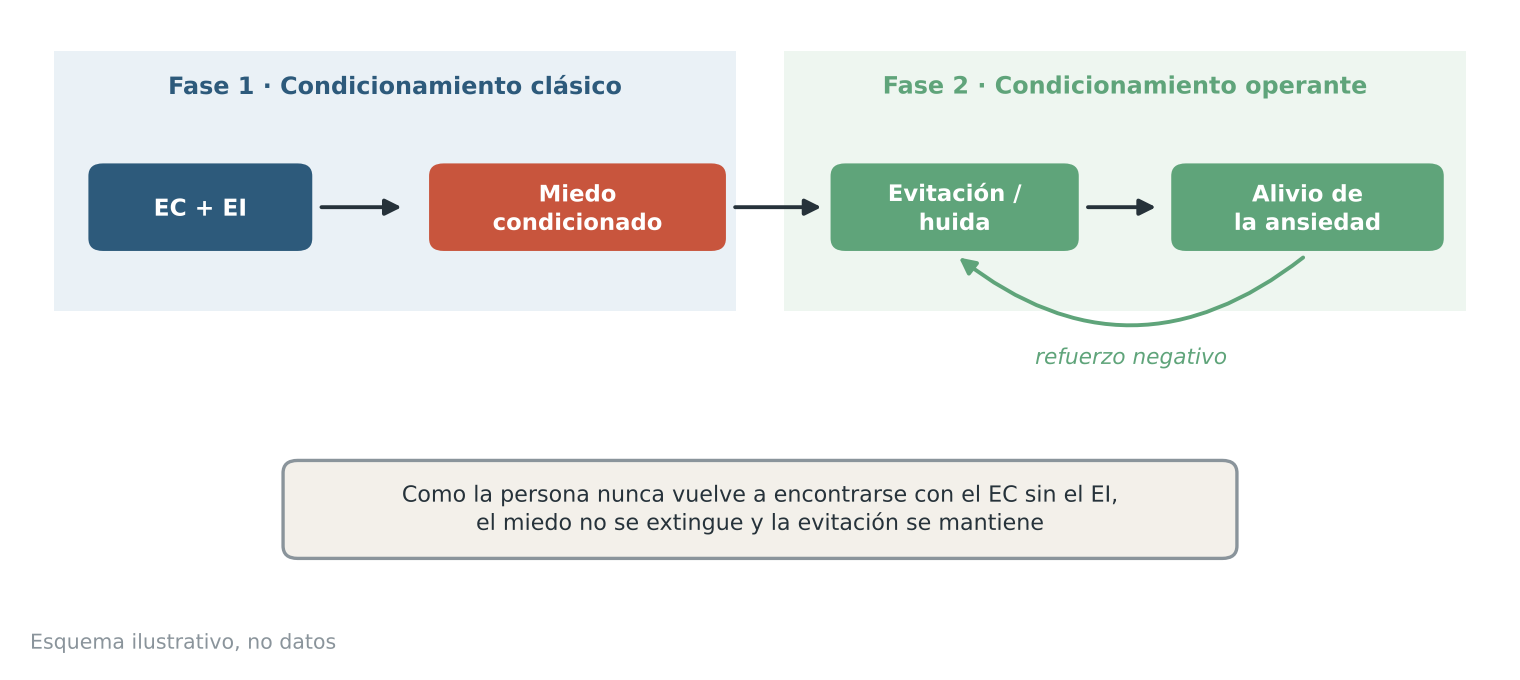
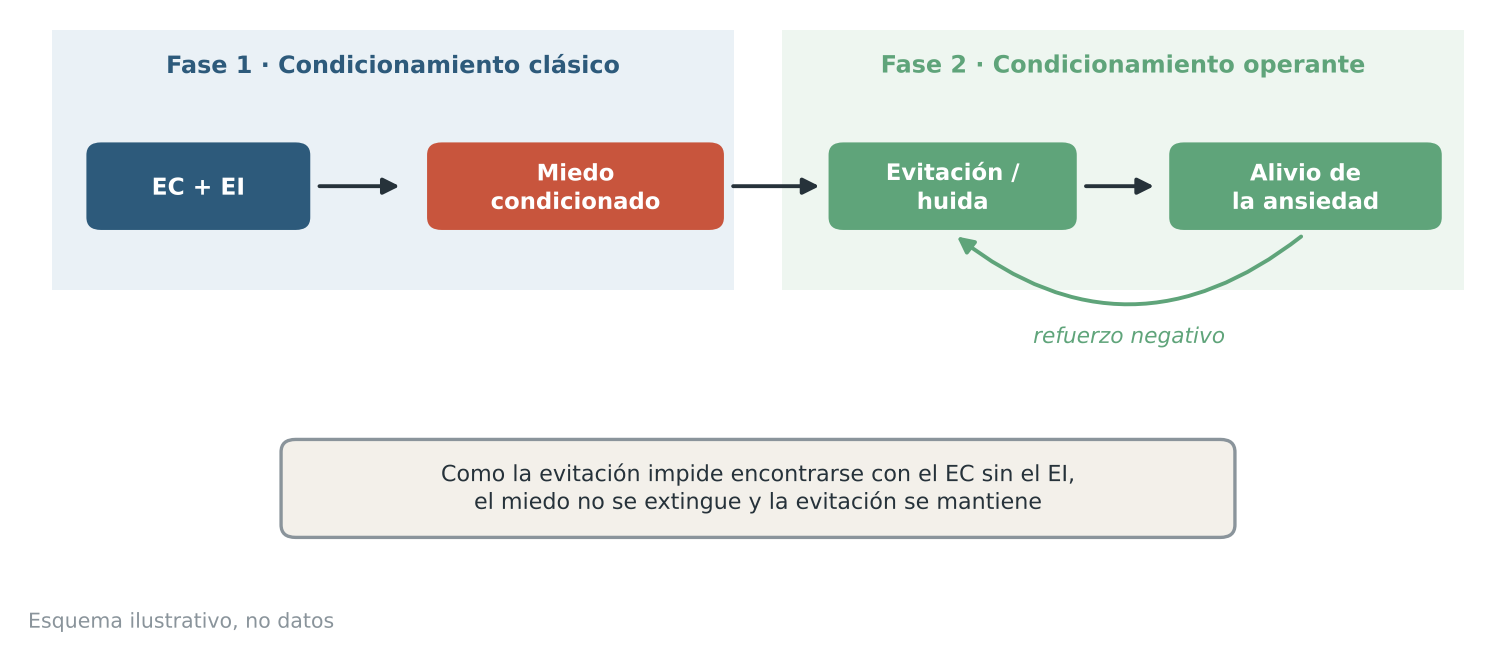
Psicopatología: temario completo revisado (16 unidades, figuras y créditos)
Claude-Session: https://claude.ai/code/session_015DUpSUnVGHW6WTjJKwbN9p

diff --git a/temarios/psicopatologia/tools/figuras.py b/temarios/psicopatologia/tools/figuras.py
@@ -217,7 +217,7 @@ if want('u07_mowrer'):
     box(ax, 7.6, 3.9, 2.0, .8, 'Evitación /\nhuida', G, 8.2); arr(ax, (8.65, 3.9), (9.3, 3.9)); box(ax, 10.5, 3.9, 2.2, .8, 'Alivio de\nla ansiedad', G, 8.2)
     arr(ax, (5.75, 3.9), (6.55, 3.9))
     arr(ax, (10.5, 3.45), (7.6, 3.45), G, rad=-.4); txt(ax, 9.05, 2.45, 'refuerzo negativo', 7.8, G, style='italic')
-    box(ax, 6.0, 1.0, 7.8, .9, 'Como la persona nunca vuelve a encontrarse con el EC sin el EI,\nel miedo no se extingue y la evitación se mantiene', SOFT, 8, tc=INK, bold=False, ec=MUTE)
+    box(ax, 6.0, 1.0, 7.8, .9, 'Como la evitación impide encontrarse con el EC sin el EI,\nel miedo no se extingue y la evitación se mantiene', SOFT, 8, tc=INK, bold=False, ec=MUTE)
     note(ax, y=-.06)
     save(fig, 'u07_mowrer.png')
 

diff --git a/temarios/psicopatologia/04-ansiedad-trauma.md b/temarios/psicopatologia/04-ansiedad-trauma.md
@@ -12,7 +12,7 @@ El **miedo** es la respuesta a una amenaza **presente e inmediata**: un perro qu
 
 La ansiedad es adaptativa. Según la **ley de Yerkes-Dodson**, el rendimiento sigue una **U invertida**: es máximo con una activación moderada y cae con poca o con demasiada. La ansiedad es **patológica** cuando es desproporcionada a la amenaza real, persiste e interfiere en la vida. Los trastornos de ansiedad son más frecuentes en mujeres (en torno a 2:1) y su heredabilidad se sitúa aproximadamente entre el 30 y el 50 %. El DSM-5-TR agrupa aquí la ansiedad por separación, el mutismo selectivo, la fobia específica, la ansiedad social, el pánico, la agorafobia, el TAG y los cuadros inducidos por sustancias o por otra afección médica; el TOC y el TEPT salieron del capítulo en el DSM-5 (Unidades 8 y 9).
 
-La **fobia específica** es un miedo o ansiedad intensos ante un objeto o situación concretos, que casi siempre provoca miedo inmediato, se evita o se soporta con gran malestar, es desproporcionado y dura **6 meses o más**. Se especifica el tipo: **animal**, **entorno natural** (alturas, tormentas, agua), **sangre-inyecciones-heridas**, **situacional** (aviones, ascensores) y **otros**. Suele empezar en la infancia: las fobias a animales, pronto; las situacionales, más tarde. En el estudio ESEMeD-España fue el segundo trastorno en prevalencia vital.
+La **fobia específica** es un miedo o ansiedad intensos ante un objeto o situación concretos, que casi siempre provoca miedo inmediato, se evita o se soporta con gran malestar, es desproporcionado y dura **típicamente 6 meses o más**. Se especifica el tipo: **animal**, **entorno natural** (alturas, tormentas, agua), **sangre-inyecciones-heridas**, **situacional** (aviones, ascensores) y **otros**. Suele empezar en la infancia: las fobias a animales, pronto; las situacionales, más tarde. En el estudio ESEMeD-España fue el segundo trastorno en prevalencia vital.
 
 La fobia a la **sangre-inyecciones-heridas** (SIH) es una excepción fisiológica: produce una **respuesta bifásica**, con un aumento inicial de la frecuencia cardiaca y la tensión arterial seguido de una caída vasovagal que puede acabar en desmayo. Por eso se trata con la **tensión aplicada** de Öst: tensar los músculos para evitar la caída de la tensión arterial.
 
@@ -38,7 +38,7 @@ Seligman (1971) propuso la **preparación** (*preparedness*): los miedos a estí
 
 ### 7.2 Trastorno de ansiedad social
 
-El **trastorno de ansiedad social** es un miedo o ansiedad intensos en situaciones sociales en las que la persona puede ser **examinada** por otros: conversar con desconocidos, comer en público, hablar en una reunión. El núcleo es el miedo a la **evaluación negativa**: actuar o mostrar síntomas de ansiedad (ruborizarse, temblar, sudar) que lleven a la humillación, al rechazo o a ofender a alguien. Las situaciones casi siempre provocan ansiedad, se evitan o se soportan con malestar intenso, la respuesta es desproporcionada y dura **6 meses o más**. Existe el especificador **«solo actuación»**, cuando el miedo se limita a hablar o actuar en público. El DSM-5-TR ya no usa «fobia social» como sinónimo.
+El **trastorno de ansiedad social** es un miedo o ansiedad intensos en situaciones sociales en las que la persona puede ser **examinada** por otros: conversar con desconocidos, comer en público, hablar en una reunión. El núcleo es el miedo a la **evaluación negativa**: actuar o mostrar síntomas de ansiedad (ruborizarse, temblar, sudar) que lleven a la humillación, al rechazo o a ofender a alguien. Las situaciones casi siempre provocan ansiedad, se evitan o se soportan con malestar intenso, la respuesta es desproporcionada y dura **típicamente 6 meses o más**. Existe el especificador **«solo actuación»**, cuando el miedo se limita a hablar o actuar en público. El DSM-5-TR ya no usa «fobia social» como sinónimo.
 
 La prevalencia anual en Estados Unidos ronda el **7 %**, según el DSM. Suele empezar en la **adolescencia** y, sin tratamiento, tiende a la cronicidad. En el triple sistema de respuesta:
 
@@ -48,7 +48,7 @@ La prevalencia anual en Estados Unidos ronda el **7 %**, según el DSM. Suele em
 | Fisiológico | Rubor, temblor, sudoración; preocupan sobre todo los síntomas visibles |
 | Motor | Evitación, escape y conductas de seguridad, como no mirar a los ojos |
 
-**Timidez no es ansiedad social.** La **timidez** es un rasgo dimensional y muy frecuente; la mayoría de las personas tímidas **no** cumple criterios del trastorno. La diferencia está en la intensidad, la evitación, el malestar y el deterioro. Lucía, tímida, tarda en soltarse en una cena con gente nueva, pero acaba disfrutando. Marcos ha rechazado un ascenso para no hablar en reuniones y pasa días repasando cada frase que dijo: solo él tiene un trastorno. Como factor temperamental de riesgo se ha estudiado la **inhibición conductual** descrita por Kagan: la tendencia infantil a retraerse ante lo nuevo. El solapamiento con el trastorno de la personalidad evitativa es grande; el evitativo es más generalizado (Unidad 12).
+**Timidez no es ansiedad social.** La **timidez** es un rasgo dimensional y muy frecuente; la mayoría de las personas tímidas **no** cumple criterios del trastorno. La diferencia está en la intensidad, la evitación, el malestar y el deterioro. Nuria, tímida, tarda en soltarse en una cena con gente nueva, pero acaba disfrutando. Marcos ha rechazado un ascenso para no hablar en reuniones y pasa días repasando cada frase que dijo: solo él tiene un trastorno. Como factor temperamental de riesgo se ha estudiado la **inhibición conductual** descrita por Kagan: la tendencia infantil a retraerse ante lo nuevo. El solapamiento con el trastorno de la personalidad evitativa es grande; el evitativo es más generalizado (Unidad 12).
 
 **Modelos cognitivos.** Dos modelos explican por qué la ansiedad social se mantiene aunque las situaciones temidas no acaben en catástrofe:
 
@@ -59,7 +59,7 @@ En ambos, el problema no es la falta de habilidades sociales, sino la atención 
 
 ### 7.3 Trastorno de pánico y agorafobia
 
-Una **crisis o ataque de pánico** es la aparición súbita de miedo o malestar intenso que alcanza su **máximo en minutos**, con **al menos 4 de 13 síntomas**: palpitaciones, sudoración, temblor, sensación de falta de aire, de ahogo, dolor torácico, náuseas, mareo, escalofríos o calor, parestesias, desrealización o despersonalización, miedo a perder el control o a volverse loco y miedo a morir. Puede surgir desde la calma o desde un estado de ansiedad.
+Una **crisis o ataque de pánico** es la aparición súbita de miedo o malestar intenso que alcanza su **máximo en minutos**, con **al menos 4 de 13 síntomas**: palpitaciones, sudoración, temblor, sensación de falta de aire, de ahogo, dolor torácico, náuseas, mareo, escalofríos o calor, parestesias, desrealización o despersonalización, miedo a perder el control o a volverse loco y miedo a morir. Puede aparecer tanto en reposo como cuando la persona ya estaba ansiosa.
 
 El **trastorno de pánico** exige crisis **inesperadas y recurrentes**, y que al menos a una le siga **un mes o más** de inquietud persistente por nuevas crisis o sus consecuencias («¿y si me da un infarto?») o un cambio desadaptativo de la conducta (dejar el gimnasio para no acelerar el corazón). Las crisis **esperadas**, ligadas a una situación temida, también existen: por eso el ataque de pánico es, además, un **especificador** aplicable a cualquier trastorno («depresión con ataques de pánico»). La prevalencia anual ronda el **2-3 %**, según el DSM, y suele iniciarse en la adultez temprana.
 
@@ -77,9 +77,9 @@ Como muestra la figura 7.4, el ciclo se cierra sobre sí mismo: la ansiedad inte
 - **Barlow** distingue la **falsa alarma** (una reacción de miedo sin peligro real), la **alarma aprendida** (que queda condicionada a señales) y el condicionamiento **interoceptivo**: las propias sensaciones corporales se convierten en señales de una nueva crisis.
 - **Klein (1993)** propuso la hipótesis de la **falsa alarma de asfixia**: un detector de asfixia demasiado sensible se dispararía sin motivo. Estas hipótesis se estudian con **pruebas de provocación** (CO₂, hiperventilación, lactato).
 
-**La agorafobia** es un miedo o ansiedad intensos en **al menos 2 de 5 situaciones**: transporte público, espacios abiertos, sitios cerrados, hacer cola o estar entre una multitud, y estar fuera de casa solo. Se temen porque escapar sería difícil o no habría ayuda si aparecieran síntomas de pánico u otros síntomas incapacitantes o embarazosos (caerse, en una persona mayor; perder el control de esfínteres). Las situaciones se evitan, exigen un acompañante o se soportan con gran malestar, durante **6 meses o más**. Su prevalencia es aproximadamente del 1-2 %.
+**La agorafobia** es un miedo o ansiedad intensos en **al menos 2 de 5 situaciones**: transporte público, espacios abiertos, sitios cerrados, hacer cola o estar entre una multitud, y estar fuera de casa solo. Se temen porque escapar sería difícil o no habría ayuda si aparecieran síntomas de pánico u otros síntomas incapacitantes o embarazosos (caerse, en una persona mayor; perder el control de esfínteres). Las situaciones se evitan, exigen un acompañante o se soportan con gran malestar, durante **típicamente 6 meses o más**. Su prevalencia es aproximadamente del 1-2 %.
 
-Hasta el DSM-IV se hablaba de «trastorno de pánico con o sin agorafobia». Desde el DSM-5 son **diagnósticos independientes**: la agorafobia puede existir sin pánico y, si se cumplen ambos, se diagnostican los dos. Ana tuvo dos crisis en el metro y ahora solo sale acompañada: tiene ambos trastornos. El tratamiento con más apoyo es la exposición *in vivo* dentro de la terapia cognitivo-conductual (Tratamientos).
+Hasta el DSM-IV se hablaba de «trastorno de pánico con o sin agorafobia». Desde el DSM-5 son **diagnósticos independientes**: la agorafobia puede existir sin pánico y, si se cumplen ambos, se diagnostican los dos. Ana ha tenido varias crisis inesperadas, vive pendiente de que se repitan y desde hace más de 6 meses evita el metro y las colas o solo sale acompañada: tiene ambos trastornos. El tratamiento con más apoyo es la exposición *in vivo* dentro de la terapia cognitivo-conductual (Tratamientos).
 
 ### 7.4 Trastorno de ansiedad generalizada y otros trastornos de ansiedad
 
@@ -295,7 +295,7 @@ Con la **rumiación** y la **preocupación**, el TOC comparte el pensamiento rep
 
 ### Clave PIR
 
-**Prioridad alta.** Según análisis de academias, el TOC aporta varias preguntas en cada convocatoria. Se preguntan la definición de obsesión y compulsión (incluidos los actos mentales), los especificadores de *insight*, el modelo de Salkovskis, la fusión pensamiento-acción y qué trastornos forman el grupo en cada sistema. Trampas típicas: creer que el *insight* ausente obliga a diagnosticar psicosis, confundir TOC y TPOC, situar la hipocondría en el mismo capítulo en el DSM-5-TR y en la CIE-11, y exagerar el efecto del oso blanco.
+**Prioridad alta.**  Se preguntan la definición de obsesión y compulsión (incluidos los actos mentales), los especificadores de *insight*, el modelo de Salkovskis, la fusión pensamiento-acción y qué trastornos forman el grupo en cada sistema. Trampas típicas: creer que el *insight* ausente obliga a diagnosticar psicosis, confundir TOC y TPOC, situar la hipocondría en el mismo capítulo en el DSM-5-TR y en la CIE-11, y exagerar el efecto del oso blanco.
 
 ### Autoevaluación
 
@@ -362,7 +362,7 @@ Como muestra la figura 9.1, el tiempo es clave en el diagnóstico diferencial de
 - **Modelo cognitivo** (Ehlers y Clark, 2000). El TEPT persiste cuando la persona siente una **amenaza actual**, no pasada. Esa sensación procede de **valoraciones negativas** del trauma o de sus secuelas («nunca estaré a salvo», «fue culpa mía») y de una **memoria del trauma mal elaborada** y poco contextualizada, que se reactiva con claves sensoriales y se vive como si ocurriera ahora. La evitación y la supresión impiden actualizar esa memoria.
 - **Representación dual** (Brewin y colaboradores). Distingue **memorias sensoriales**, que se activan ante señales situacionales y explican los *flashbacks*, de **memorias verbales** contextualizadas, que sitúan el suceso en el pasado.
 
-Un ejemplo: Sara sufrió un atropello hace tres meses. Cuando oye un frenazo nota el golpe «como si estuviera pasando», evita esa calle, se culpa y duerme mal: cumple criterios de TEPT.
+Un ejemplo: Sara sufrió un atropello hace tres meses. Cuando oye un frenazo nota el golpe «como si estuviera pasando», evita esa calle, se culpa, está convencida de que ya no hay ningún lugar seguro, se sobresalta con cualquier ruido y duerme mal: el cuadro es compatible con un TEPT.
 
 ### 9.2 El TEPT complejo de la CIE-11 y el debate sobre la memoria traumática
 
@@ -378,7 +378,7 @@ Un ejemplo: Sara sufrió un atropello hace tres meses. Cuando oye un frenazo not
 
 Figura 9.2. **Del TEPT al TEPT complejo en la CIE-11.** A los tres núcleos del TEPT (reexperimentación, evitación y amenaza actual) se suman tres alteraciones de la autoorganización: desregulación afectiva, autoconcepto negativo y dificultades relacionales. Elaboración propia.
 
-Como muestra la figura 9.2, el TEPT complejo no es un trastorno distinto en su base, sino el TEPT más un segundo bloque de síntomas. Sustituye a la «transformación persistente de la personalidad tras experiencia catastrófica» de la CIE-10, y los estudios de campo apoyan la distinción entre ambos cuadros. El solapamiento con el trastorno límite de la personalidad es un tema de discusión clínica (Unidad 12).
+Como muestra la figura 9.2, el TEPT complejo incluye los requisitos del TEPT más un segundo bloque de síntomas; se diagnostica uno u otro, no ambos. Sustituye a la «transformación persistente de la personalidad tras experiencia catastrófica» de la CIE-10, y los estudios de campo apoyan la distinción entre TEPT y TEPT complejo. El solapamiento con el trastorno límite de la personalidad es un tema de discusión clínica (Unidad 12).
 
 | Aspecto | DSM-5-TR | CIE-11 |
 | --- | --- | --- |
@@ -407,7 +407,7 @@ En la **CIE-11**, la **reacción de estrés agudo** **no es un trastorno mental*
 
 Se especifican subtipos: con estado de ánimo deprimido, con ansiedad, mixto con ansiedad y estado de ánimo deprimido, con alteración de la conducta, mixto con alteración de las emociones y la conducta, y no especificado. El DSM-5-TR aclara que los síntomas **subumbrales** que aparecen ante un estresor se codifican como trastorno de adaptación. La CIE-11 lo describe a partir de dos rasgos: la **preocupación** por el estresor y sus consecuencias, y el **fallo de adaptación**, que interfiere en la vida diaria; suele resolverse en unos 6 meses.
 
-Un ejemplo: Pablo empezó a dormir mal, a irritarse con su pareja y a faltar a clase dos semanas después de que su empresa cerrara. No tiene síntomas suficientes para una depresión, pero su malestar es mayor de lo esperable y le impide funcionar. Es un trastorno de adaptación con estado de ánimo mixto.
+Un ejemplo: Pablo empezó a dormir mal, a irritarse con su pareja y a faltar al trabajo dos semanas después de que anunciaran el cierre de su empresa. No tiene síntomas suficientes para una depresión, pero su malestar es mayor de lo esperable y le impide funcionar. Es un trastorno de adaptación mixto con alteración de las emociones y la conducta.
 
 **Trastornos de la infancia ligados a la privación de cuidados.** Dos diagnósticos del grupo aparecen en niños que han sufrido un **cuidado gravemente insuficiente**: negligencia, cambios repetidos de cuidadores o crianza en instituciones con pocos adultos por niño.
 
@@ -420,7 +420,7 @@ El desarrollo del apego se estudia en Psicología del Desarrollo.
 
 El **duelo** es la reacción normal a la muerte de un ser querido. Puede ser muy intenso y durar mucho tiempo sin ser patológico. El DSM-5-TR incorporó en 2022 el **trastorno de duelo prolongado**, que la CIE-11 ya incluía. Ambos sistemas lo describen como un duelo que persiste más allá de lo esperable y causa malestar o deterioro significativos.
 
-**DSM-5-TR.** Exige que hayan pasado **al menos 12 meses** desde la muerte (**6 meses en niños y adolescentes**) y una respuesta de duelo persistente, presente la mayoría de los días, con **anhelo intenso** de la persona fallecida o **preocupación** constante por ella. Debe acompañarse de **al menos 3 síntomas** de una lista que incluye:
+**DSM-5-TR.** Exige que hayan pasado **al menos 12 meses** desde la muerte (**6 meses en niños y adolescentes**) y una respuesta de duelo persistente, presente la mayoría de los días y casi a diario durante al menos el último mes, con **anhelo intenso** de la persona fallecida o **preocupación** constante por ella. Debe acompañarse de **al menos 3 síntomas** de una lista que incluye:
 
 - Alteración de la identidad, como si una parte de uno hubiera muerto.
 - Marcada incredulidad ante la muerte.

diff --git a/temarios/psicopatologia/01-fundamentos.md b/temarios/psicopatologia/01-fundamentos.md
@@ -14,7 +14,7 @@ Para decidir qué es anormal no hay un criterio único, sino varios, cada uno co
 
 **Criterio estadístico.** Lo anormal es lo que se aleja de la media de una población de referencia. Si una característica se distribuye de forma normal, aproximadamente el 68 % de las personas queda a menos de una desviación típica de la media, en torno al 95 % a menos de dos y cerca del 99,7 % a menos de tres. Es objetivo, pero califica de anormal lo infrecuente aunque sea deseable (una capacidad intelectual muy alta) y no dice qué variables medir ni dónde poner el corte.
 
-**Criterio social o consensual.** Lo anormal es lo que se aparta de las normas del grupo. H. S. Sullivan habló de **validación consensual**: la comunidad acuerda qué resulta aceptable. Recoge la adaptación social, que a menudo es un objetivo terapéutico, pero cae en el **relativismo** cultural e histórico: la homosexualidad figuró como trastorno en el DSM hasta 1973-1974.
+**Criterio social o consensual.** Lo anormal es lo que se aparta de las normas del grupo. H. S. Sullivan habló de **validación consensual**: la comunidad acuerda qué resulta aceptable. Recoge la adaptación social, que a menudo es un objetivo terapéutico, pero cae en el **relativismo** cultural e histórico: la homosexualidad figuró como trastorno en el DSM hasta 1973-1974, y la «homosexualidad egodistónica» se mantuvo hasta el DSM-III-R (1987).
 
 **Criterio subjetivo.** La propia persona juzga su malestar. Respeta la vivencia de quien sufre, pero falla cuando falta **conciencia de enfermedad**, algo frecuente en la manía, la psicosis o la anorexia. Además, no todo el que consulta tiene un trastorno.
 
@@ -62,17 +62,17 @@ Como refleja la figura 1.4, los internos podían convertirse en espectáculo par
 
 ### 1.3 El nacimiento de la psicopatología científica
 
-**Pinel y el tratamiento moral.** **Philippe Pinel** (1745-1826) dirigió el hospital de Bicêtre (1793) y después la Salpêtrière, en París, donde impulsó el **tratamiento moral**: trato humano, orden, actividad y observación de cada paciente en lugar de cadenas y castigos. La escena de la «liberación de las cadenas» es en parte leyenda: el supervisor **Jean-Baptiste Pussin** tuvo un papel clave. En Inglaterra, **William Tuke** fundó el York Retreat (1796) con principios parecidos.
-
-![](u01_linea_tiempo.png)
-
-Figura 1.5. **Hitos de la historia de la psicopatología.** Eje temporal desde la trepanación prehistórica hasta las propuestas para el futuro DSM, con Hipócrates, Valencia (1409), Weyer, Pinel, Kraepelin, Bleuler, Jaspers, el DSM-III, el DSM-5, la CIE-11 y el DSM-5-TR. Esquema ilustrativo con fechas reales. Elaboración propia.
-
-**El modelo médico del siglo XIX.** Como muestra la figura 1.5, el siglo XIX situó los trastornos mentales en el terreno de la medicina. **Griesinger** lo resumió así: «las enfermedades mentales son enfermedades del cerebro». Lo reforzó un hallazgo: la **parálisis general progresiva**, con síntomas psiquiátricos y demencia, era una consecuencia tardía de la sífilis; Noguchi y Moore (1913) hallaron el *Treponema* en el cerebro de los pacientes.
+**Pinel y el tratamiento moral.** **Philippe Pinel** (1745-1826) dirigió el hospital de Bicêtre (1793) y después la Salpêtrière, en París, donde impulsó el **tratamiento moral**: trato humano, orden, actividad y observación de cada paciente en lugar de cadenas y castigos. La escena de la «liberación de las cadenas» es en parte leyenda: el supervisor **Jean-Baptiste Pussin** tuvo un papel clave. En Inglaterra, **William Tuke** fundó el York Retreat (1796) con principios parecidos. La figura 1.5 muestra cómo la pintura idealizó la escena.
 
 ![](wm-pinel.jpg)
 
-Figura 1.6. **Pinel en la Salpêtrière (Tony Robert-Fleury).** La pintura idealiza la «liberación de las cadenas»; en la reforma real fue clave también el supervisor Jean-Baptiste Pussin. Fuente: Tony Robert-Fleury, Wikimedia Commons, dominio público.
+Figura 1.5. **Pinel en la Salpêtrière (Tony Robert-Fleury).** La pintura idealiza la «liberación de las cadenas»; en la reforma real fue clave también el supervisor Jean-Baptiste Pussin. Fuente: Tony Robert-Fleury, Wikimedia Commons, dominio público.
+
+![](u01_linea_tiempo.png)
+
+Figura 1.6. **Hitos de la historia de la psicopatología.** Eje temporal desde la trepanación prehistórica hasta las propuestas para el futuro DSM, con Hipócrates, Valencia (1409), Weyer, Pinel, Kraepelin, Bleuler, Jaspers, el DSM-III, el DSM-5, la CIE-11 y el DSM-5-TR. Esquema ilustrativo con fechas reales. Elaboración propia.
+
+**El modelo médico del siglo XIX.** Como muestra la figura 1.6, el siglo XIX situó los trastornos mentales en el terreno de la medicina. **Griesinger** lo resumió así: «las enfermedades mentales son enfermedades del cerebro». Lo reforzó un hallazgo: la **parálisis general progresiva**, con síntomas psiquiátricos y demencia, era una consecuencia tardía de la sífilis; Noguchi y Moore (1913) hallaron el *Treponema* en el cerebro de los pacientes.
 
 **Kraepelin, Bleuler y Jaspers.** **Emil Kraepelin** clasificó los trastornos por su **curso y pronóstico**. En la 6.ª edición de su tratado (1899) separó la *dementia praecox*, de curso deteriorante, de la **locura maníaco-depresiva**, de curso episódico. **Eugen Bleuler** (1911) acuñó el término **esquizofrenia**, que alude a una escisión de las funciones psíquicas, no de la personalidad, y distinguió síntomas fundamentales, las **cuatro A** (asociaciones laxas, afecto aplanado o inapropiado, ambivalencia y autismo), de síntomas accesorios como delirios y alucinaciones. **Karl Jaspers**, en su *Psicopatología general* (1913), fundó el método fenomenológico y distinguió **comprender** (captar relaciones de sentido) de **explicar** (establecer relaciones causales); de ahí el delirio primario, incomprensible, y la distinción entre **proceso** y **desarrollo**. Después, **Kurt Schneider** describió los **síntomas de primer rango** (Unidad 5).
 
@@ -118,7 +118,7 @@ Tres fuentes de datos son de referencia:
 
 ### Consenso y debate
 
-**Consenso:** ningún criterio aislado define la anormalidad; la práctica combina disfunción, malestar y deterioro, como recoge la definición del DSM-5-TR. Los trastornos mentales son frecuentes: alrededor de la mitad de la población cumplirá criterios de alguno a lo largo de la vida, con inicio típico en la adolescencia y la juventud (McGrath et al., 2023).
+**Consenso:** ningún criterio aislado define la anormalidad; la práctica combina disfunción, malestar y deterioro, como recoge la definición del DSM-5-TR. Los trastornos mentales son frecuentes: cerca de tres de cada diez personas han tenido alguno a lo largo de su vida, y el riesgo acumulado hasta los 75 años ronda la mitad, con inicio típico en la adolescencia y la juventud (McGrath et al., 2023).
 
 **Debate:** dónde termina el componente científico de la definición de trastorno y dónde empieza el valorativo, y si una «función natural» puede establecerse sin juicios de valor.
 
@@ -182,12 +182,7 @@ c) prevalencia vital
 
 ### 2.1 El modelo biomédico
 
-El **modelo biomédico** entiende el trastorno mental como una **enfermedad** con una base orgánica: alteraciones genéticas, de la neurotransmisión o de la estructura y el funcionamiento cerebral. Sus supuestos son los de la medicina general:
-
-1. Detrás de los síntomas hay una **anormalidad biológica** en la estructura o en la función de algún sistema.
-2. El diagnóstico se hace a partir de **signos y síntomas**, a veces con pruebas complementarias, y es **categorial**: se tiene o no se tiene la enfermedad.
-3. El diagnóstico orienta el **pronóstico**.
-4. El tratamiento, sobre todo **biológico**, se dirige a la causa supuesta.
+El **modelo biomédico** entiende el trastorno mental como una **enfermedad** con una base orgánica: alteraciones genéticas, de la neurotransmisión o de la estructura y el funcionamiento cerebral. Traslada a la psicopatología la lógica de la medicina general: busca una **alteración biológica** que explique los síntomas, diagnostica de forma **categorial** (se tiene o no la enfermedad) a partir de signos y síntomas, y espera que el diagnóstico prediga el **curso** y oriente un tratamiento **biológico** dirigido a esa causa.
 
 **Aportaciones.** El modelo tiene éxitos claros. La parálisis general progresiva resultó ser una infección del cerebro por sífilis (Unidad 1). Los psicofármacos, desde la clorpromazina en 1952, cambiaron el pronóstico de muchas personas y la vida de los hospitales. La genética ha mostrado que casi todos los rasgos y trastornos tienen un componente hereditario. Una revisión de cinco décadas de estudios de gemelos, con 17.804 rasgos y más de 14,5 millones de pares de gemelos, estimó una **heredabilidad media de los rasgos humanos de ≈49 %** (Polderman et al., 2015).
 
@@ -239,7 +234,7 @@ En lugar del diagnóstico categorial propone el **análisis funcional**: identif
 
 **El modelo cognitivo.** Añade que entre la situación y la emoción **media el procesamiento de la información**: esquemas, creencias, sesgos y distorsiones. Para **Beck** (1967), los esquemas disfuncionales activados por un suceso generan pensamientos automáticos negativos que mantienen la depresión (Unidad 10). **Ellis** propuso el **modelo ABC**: un acontecimiento (A) no causa directamente las consecuencias emocionales y conductuales (C); las causan las **creencias** (B) sobre él. Suspender un examen no produce lo mismo en quien piensa «tengo que estudiar de otra forma» que en quien piensa «soy un fracaso». Hoy ambos enfoques se integran en el **modelo cognitivo-conductual**, que considera cogniciones, emociones, conductas y contexto en interacción. Las técnicas de intervención se estudian en Tratamientos psicológicos.
 
-**El modelo sociocultural.** Destaca los factores sociales en el origen y el mantenimiento de los trastornos. Distingue un nivel **microsocial**, como la familia o el grupo de amigos, y uno **macrosocial**, como la estructura económica o las normas culturales. La pobreza, la discriminación, el aislamiento, el entorno urbano y la migración se asocian a más psicopatología. También recuerda que lo que se considera síntoma depende en parte de la cultura (Unidad 1).
+**El modelo sociocultural.** Destaca los factores sociales en el origen y el mantenimiento de los trastornos. Mira tanto el entorno cercano (familia, amistades) como las condiciones de la sociedad en su conjunto (economía, desigualdad, normas culturales). La pobreza, la discriminación, el aislamiento, el entorno urbano y la migración se asocian a más psicopatología. También recuerda que lo que se considera síntoma depende en parte de la cultura (Unidad 1).
 
 Su versión más radical fue la **antipsiquiatría** de los años sesenta y setenta. **Thomas Szasz** sostuvo que la «enfermedad mental» es un mito que convierte problemas vitales y desviaciones sociales en enfermedades, y **R. D. Laing** interpretó la psicosis como una respuesta comprensible a situaciones familiares y sociales insoportables. Hoy se estudia como **crítica histórica**: sus tesis más radicales no han recibido apoyo empírico, pero contribuyó a denunciar abusos y a impulsar la reforma psiquiátrica.
 

diff --git a/temarios/psicopatologia/03-funciones.md b/temarios/psicopatologia/03-funciones.md
@@ -76,7 +76,7 @@ Los procesos normales de codificación, almacenamiento y recuperación se estudi
 - **Amnesia anterógrada**: incapacidad de **fijar información nueva** desde el inicio del problema. La persona olvida lo que ha comido o lo que le acaban de decir.
 - **Amnesia retrógrada**: pérdida de recuerdos **anteriores** al inicio.
 
-En la amnesia retrógrada de causa orgánica se cumple con frecuencia la **ley de Ribot**: los recuerdos **más recientes** se pierden antes y los **más antiguos** se conservan mejor. Una mujer con una demencia incipiente olvida la visita de ayer, pero recuerda con detalle su boda o la casa de su infancia.
+En la amnesia retrógrada de causa orgánica se cumple con frecuencia la **ley de Ribot**: los recuerdos **más recientes** se pierden antes y los **más antiguos** se conservan mejor. Un hombre que sufrió un traumatismo craneal no recuerda los meses previos al accidente, pero conserva con detalle los recuerdos de su boda o de su infancia.
 
 **Amnesia orgánica frente a disociativa.** Es una distinción básica para el diagnóstico:
 
@@ -138,13 +138,13 @@ Cuatro movimientos repetitivos se confunden a menudo:
 
 **Consenso:** la conciencia tiene alteraciones de nivel (de la obnubilación al coma) y de contenido (estado crepuscular, onirismo, delirium), y el delirium es un síndrome agudo y fluctuante que siempre exige buscar una causa médica. La amnesia orgánica suele afectar a la fijación de información nueva y sigue el gradiente de Ribot, mientras que la disociativa afecta a información autobiográfica. El insight es dimensional.
 
-**Debate:** los síntomas de primer rango de Schneider fueron durante décadas la base del diagnóstico de esquizofrenia, pero hoy se cuestiona su especificidad, y el DSM-5 y la CIE-11 les han restado peso. También se discute cómo interpretar las amnesias de sucesos traumáticos: Otgaar et al. (2019) encuentran poco apoyo a la represión inconsciente, y Brewin (2021) matiza esa crítica.
+**Debate:** los síntomas de primer rango de Schneider fueron durante décadas la base del diagnóstico de esquizofrenia, pero hoy se cuestiona su especificidad, y el DSM-5 y la CIE-11 les han restado peso.
 
 ### Mito frecuente
 
-**Mito:** «Los recuerdos traumáticos se reprimen por completo y, con la terapia adecuada, se pueden recuperar intactos y con fiabilidad».
+**Mito:** «Quien confabula está mintiendo».
 
-**Realidad:** el apoyo a la represión inconsciente es débil, aunque la creencia está muy extendida en la población, y las técnicas sugestivas pueden generar recuerdos falsos (Otgaar et al., 2019). Brewin (2021) matiza la crítica, pero hay acuerdo en no aceptar sin reservas un recuerdo recuperado que no esté corroborado.
+**Realidad:** la confabulación rellena lagunas de memoria sin intención de engañar; la persona cree lo que cuenta. Es típica del síndrome de Korsakoff. La mentira patológica sin déficit de memoria es la pseudología fantástica.
 
 ### Conceptos clave
 
@@ -170,7 +170,7 @@ a) obnubilación
 b) estupor
 c) somnolencia
 
-**2.** Un hombre con demencia incipiente olvida lo que hizo ayer, pero recuerda bien su infancia. Es un ejemplo de…
+**2.** Tras un traumatismo craneal, un hombre ha perdido los recuerdos de los meses previos, pero recuerda bien su infancia. Es un ejemplo de…
 a) la ley de Ribot
 b) amnesia disociativa
 c) pseudología fantástica
@@ -388,7 +388,7 @@ a) refleja
 b) extracampina
 c) funcional
 
-**2.** Una persona con consumo crónico de alcohol oye voces amenazantes, pero sabe que no son reales. Es…
+**2.** Una persona con consumo crónico de alcohol oye voces amenazantes nítidas que suenan en la habitación, pero sabe que no son reales. Es…
 a) una alucinosis
 b) una pseudoalucinación
 c) una ilusión

diff --git a/temarios/psicopatologia/02-diagnostico.md b/temarios/psicopatologia/02-diagnostico.md
@@ -12,7 +12,7 @@ Una **clasificación** es un sistema ordenado de categorías. El **diagnóstico*
 
 Las funciones principales del diagnóstico son cinco:
 
-1. **Comunicación.** Una etiqueta compartida resume mucha información. «Trastorno de pánico con agorafobia» orienta a cualquier profesional sobre lo que le ocurre a la persona.
+1. **Comunicación.** Una etiqueta compartida resume mucha información. «Trastorno de pánico» orienta a cualquier profesional sobre lo que le ocurre a la persona.
 2. **Investigación.** Comparar estudios exige participantes que cumplan los mismos criterios.
 3. **Pronóstico.** Saber qué categoría encaja ayuda a prever el curso más probable.
 4. **Decisión terapéutica.** Muchos tratamientos se han probado en grupos definidos por su diagnóstico.
@@ -79,7 +79,7 @@ La **CIE-11** fue aprobada por la Asamblea Mundial de la Salud en mayo de 2019 y
 - En **personalidad**, sustituye los tipos por un diagnóstico de gravedad (leve, moderado, grave) con especificadores de cinco dominios de rasgos y un especificador de patrón límite (Unidad 12).
 - En **psicosis**, la esquizofrenia **pierde los subtipos** y se añaden descriptores de síntomas para valorar la intensidad de cada dimensión (Unidad 11).
 
-**Categorías nuevas o reubicadas.** Entre otras, la **catatonía** como agrupación propia; el **bipolar II**; en el grupo obsesivo-compulsivo, el trastorno dismórfico corporal, el **síndrome de referencia olfativa**, la acumulación, la excoriación y la **hipocondría**; el **TEPT complejo** y el **duelo prolongado**; el trastorno por atracón y el ARFID; la disforia de integridad corporal; el **trastorno por videojuegos**; el trastorno de **conducta sexual compulsiva**; el explosivo intermitente y el trastorno disfórico premenstrual. El **trastorno de distrés corporal** sustituye a los antiguos trastornos somatomorfos (Unidad 14).
+**Categorías nuevas o reubicadas.** Entre otras, la **catatonía** como agrupación propia; el **bipolar II**; en el grupo obsesivo-compulsivo, el trastorno dismórfico corporal, el **síndrome de referencia olfativa**, la acumulación, la excoriación y la **hipocondría**; el **TEPT complejo** y el **duelo prolongado**; el trastorno por atracón y el ARFID; la disforia de integridad corporal; el **trastorno por videojuegos**; el trastorno de **conducta sexual compulsiva**; el explosivo intermitente y el trastorno disfórico premenstrual. El **trastorno de distrés corporal** sustituye a la mayoría de los antiguos trastornos somatomorfos (la hipocondría pasa al grupo obsesivo-compulsivo) (Unidad 14).
 
 **Lo que sale del capítulo de trastornos mentales.** La **reacción de estrés agudo** deja de ser un trastorno y pasa a los factores que influyen en el estado de salud: se entiende como una respuesta esperable ante un suceso extremo. Los trastornos del **sueño-vigilia** y las afecciones relacionadas con la **salud sexual** tienen capítulos propios. La **incongruencia de género** se sitúa en el capítulo de salud sexual, **fuera de los trastornos mentales**, para reducir el estigma sin dejar de dar acceso a la atención sanitaria (Unidad 13).
 

diff --git a/temarios/psicopatologia/08-apendices.md b/temarios/psicopatologia/08-apendices.md
@@ -98,7 +98,7 @@
 
 ## Créditos de las ilustraciones
 
-Las figuras 1.1, 1.5, 2.2, 3.1, 3.2, 4.1, 4.2, 5.1, 6.1, 6.2, 7.1, 7.3, 7.4, 7.5, 8.1, 8.2, 9.1, 9.2, 10.1, 10.2, 10.3, 10.4, 11.2, 11.4, 12.1, 13.3, 15.1, 15.2 y 16.1 son de **elaboración propia** de SAIMAP (esquemas y gráficos). Las marcadas como esquema son ilustrativas y no representan datos; las que muestran datos citan su fuente en el pie.
+Las figuras 1.1, 1.6, 2.2, 3.1, 3.2, 4.1, 4.2, 5.1, 6.1, 6.2, 7.1, 7.3, 7.4, 7.5, 8.1, 8.2, 9.1, 9.2, 10.1, 10.2, 10.3, 10.4, 11.2, 11.4, 12.1, 13.3, 15.1, 15.2 y 16.1 son de **elaboración propia** de SAIMAP (esquemas y gráficos). Las marcadas como esquema son ilustrativas y no representan datos; las que muestran datos citan su fuente en el pie.
 
 Las imágenes siguientes proceden de Wikimedia Commons y se usan según sus licencias. Se reproducen sin cambios salvo el tamaño y, donde se indica, el fondo.
 
@@ -107,7 +107,7 @@ Las imágenes siguientes proceden de Wikimedia Commons y se usan según sus lice
 | 1.2 Cráneos trepanados de la Edad del Bronce | Wisi eu | [CC BY‑SA 4.0](https://creativecommons.org/licenses/by-sa/4.0/) | [Crânes trépanation âge du bronze.jpg](https://commons.wikimedia.org/wiki/File:Cr%C3%A2nes_tr%C3%A9panation_%C3%A2ge_du_bronze.jpg) |
 | 1.3 *El padre Jofré protegiendo a un loco* | Joaquín Sorolla | Dominio público | [Jofre sorolla.jpg](https://commons.wikimedia.org/wiki/File:Jofre_sorolla.jpg) |
 | 1.4 *En Bedlam* | William Hogarth (Yale Center for British Art) | [CC0](https://creativecommons.org/publicdomain/zero/1.0/) | [William Hogarth - A Rake's Progress, Plate VIII, In Bedlam - B1981.25.1418 - Yale Center for British Art.jpg](https://commons.wikimedia.org/wiki/File:William_Hogarth_-_A_Rake%27s_Progress,_Plate_VIII,_In_Bedlam_-_B1981.25.1418_-_Yale_Center_for_British_Art.jpg) |
-| 1.6 Pinel en la Salpêtrière | Tony Robert-Fleury | Dominio público | [Philippe Pinel à la Salpêtrière.jpg](https://commons.wikimedia.org/wiki/File:Philippe_Pinel_%C3%A0_la_Salp%C3%AAtri%C3%A8re.jpg) |
+| 1.5 Pinel en la Salpêtrière | Tony Robert-Fleury | Dominio público | [Philippe Pinel à la Salpêtrière.jpg](https://commons.wikimedia.org/wiki/File:Philippe_Pinel_%C3%A0_la_Salp%C3%AAtri%C3%A8re.jpg) |
 | 1.7 Emil Kraepelin | Wellcome Collection | [CC BY 4.0](https://creativecommons.org/licenses/by/4.0/) | [Portrait Emil Kraepelin. Wellcome L0030730.jpg](https://commons.wikimedia.org/wiki/File:Portrait_Emil_Kraepelin._Wellcome_L0030730.jpg) |
 | 2.1 Sigmund Freud | Max Halberstadt | Dominio público | [Sigmund Freud, by Max Halberstadt (cropped).jpg](https://commons.wikimedia.org/wiki/File:Sigmund_Freud,_by_Max_Halberstadt_(cropped).jpg) |
 | 7.2 El pequeño Albert | John B. Watson | Dominio público | [Little-albert.jpg](https://commons.wikimedia.org/wiki/File:Little-albert.jpg) |
